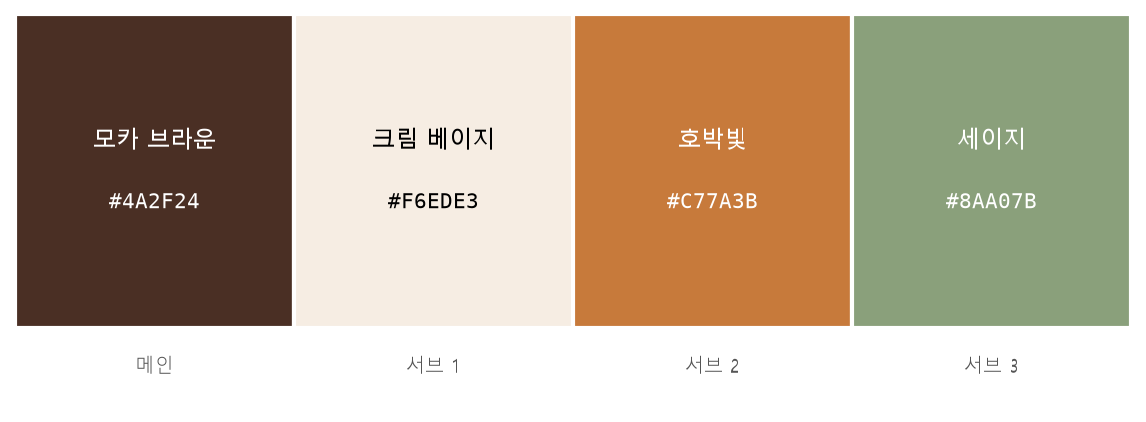
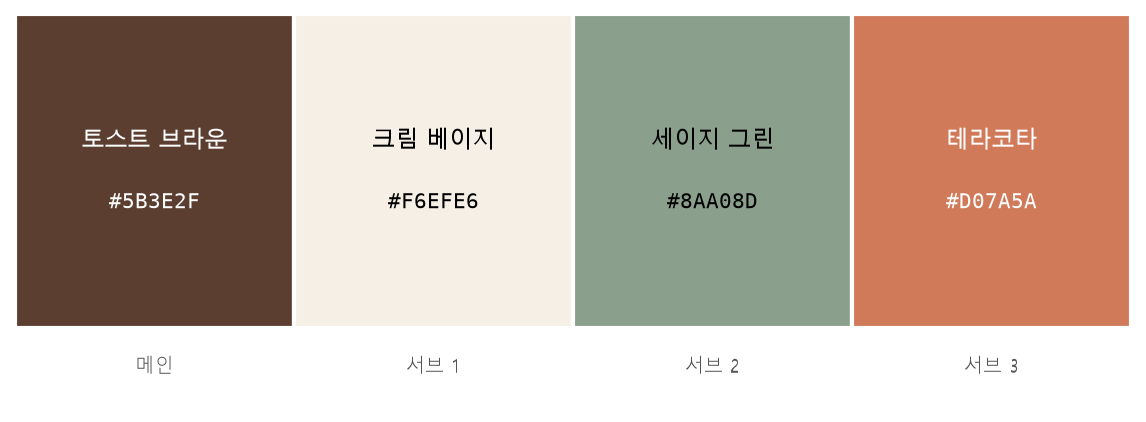
feat: 보너스 2번의 읽는 법(reading)을 검증한다
명세 보너스 2번 '다국어 네이밍 지원' 을 택했는데, 세 필드 중 reading 만
아무 검사도 하지 않고 있었다.

실측으로 '누크 / NOOK / NOOK' 이 나왔다. 읽는 법이 영문 표기와 똑같으면
한국어 사용자에게 알려 주는 것이 없다. 보너스로 고른 항목인데 품질이
새고 있었던 셈이다.

- validate._check_reading 을 넣었다. 비었는지, 알파벳인지, english 를
  그대로 베꼈는지 본다. 버리지는 않고 run_report.md 에 적는다.
- 프롬프트에 '음절을 하이픈으로 나눠 쓰라' 를 예와 함께 못 박았다.
  Ongi -> OWN-gee 는 되고, Nook -> NOOK 은 안 된다.
- README 와 점검표에 '2번을 택했다' 를 분명히 적고, 검사 항목을 표로 냈다.

테스트 192개 통과 (읽는 법 7개 추가)

산출물 재생성 — 다섯 후보 모두 읽는 법이 제대로 나왔다.
페이즈(PA-zeuh) 온김(OWN-gim) 소로우(thuh-ROW) 모먼(MO-muhn) 브리엔츠(BREE-enz)

diff --git a/output/brand_tokens.css b/output/brand_tokens.css
@@ -1,17 +1,17 @@
 :root {
-  --brand-main: #4A2F24;
-  --brand-sub-1: #F6EDE3;
-  --brand-sub-2: #C77A3B;
-  --brand-sub-3: #8AA07B;
+  --brand-main: #5B3E2F;
+  --brand-sub-1: #F6EFE6;
+  --brand-sub-2: #8AA08D;
+  --brand-sub-3: #D07A5A;
 }
 
 /* Tailwind — tailwind.config.js 의 theme.extend.colors 에 붙여 넣기
 {
   "brand": {
-    "DEFAULT": "#4A2F24",
-    "sub1": "#F6EDE3",
-    "sub2": "#C77A3B",
-    "sub3": "#8AA07B"
+    "DEFAULT": "#5B3E2F",
+    "sub1": "#F6EFE6",
+    "sub2": "#8AA08D",
+    "sub3": "#D07A5A"
   }
 }
 */

diff --git a/tests/test_naming_bonus.py b/tests/test_naming_bonus.py
@@ -103,9 +103,8 @@ def test_영문_표기가_비면_규격_위반으로_잡는다():
     """보너스로 택한 항목이므로 빠지면 기록에 남아야 한다."""
     naming = {"naming": [{"name": f"이름{i}", "meaning": "뜻"} for i in range(3)],
               "slogans": ["가", "나", "다"], "story": "이" * 300}
-    문제 = validate.check_naming(naming)
-    assert len(문제) == 3
-    assert all("english" in p for p in 문제)
+    영문문제 = [p for p in validate.check_naming(naming) if "english" in p]
+    assert len(영문문제) == 3      # 후보 셋 모두
 
 
 def test_영문_자리에_한글이_오면_잡는다():
@@ -337,7 +336,7 @@ def test_키가_없으면_예시로_돈다(monkeypatch):
 
 def test_이름이_여섯_개면_규격_위반():
     """명세는 3~5개를 요구한다."""
-    naming = {"naming": [{"name": f"이름{i}", "english": f"Name{i}", "meaning": "뜻"}
+    naming = {"naming": [{"name": f"이름{i}", "english": f"Name{i}", "reading": f"NAY-m{i}", "meaning": "뜻"}
                          for i in range(6)],
               "slogans": ["가", "나", "다"], "story": "이" * 300}
     assert any("3~5개" in p for p in validate.check_naming(naming))
@@ -345,14 +344,14 @@ def test_이름이_여섯_개면_규격_위반():
 
 def test_경쟁사_분석이_없어도_규격을_통과한다():
     """경쟁사 분석은 택하지 않은 보너스라 없어도 된다."""
-    naming = {"naming": [{"name": f"이름{i}", "english": f"Name{i}", "meaning": "뜻"}
+    naming = {"naming": [{"name": f"이름{i}", "english": f"Name{i}", "reading": f"NAY-m{i}", "meaning": "뜻"}
                          for i in range(3)],
               "slogans": ["가", "나", "다"], "story": "이" * 300}
     assert validate.check_naming(naming) == []
 
 
 def test_경쟁사_모양이_틀리면_잡는다():
-    naming = {"naming": [{"name": f"이름{i}", "english": f"Name{i}", "meaning": "뜻"}
+    naming = {"naming": [{"name": f"이름{i}", "english": f"Name{i}", "reading": f"NAY-m{i}", "meaning": "뜻"}
                          for i in range(3)],
               "slogans": ["가", "나", "다"], "story": "이" * 300,
               "competitors": "블루보틀"}
@@ -500,3 +499,53 @@ def test_유형_번호를_받아_둔다(monkeypatch):
 
     후보 = naming.generate_naming(BRIEF)["naming"]
     assert [c["type"] for c in 후보] == ["1", "2", "3"]
+
+
+# --- 보너스: 읽는 법(reading) 품질 ------------------------------------------
+#
+# 실측으로 '누크 / NOOK / NOOK' 이 나왔다. 읽는 법이 영문 표기와 똑같으면
+# 한국어 사용자에게 아무것도 알려 주지 못한다.
+
+def _후보하나(**덮어쓰기):
+    후보 = {"name": "온기", "english": "Ongi", "reading": "OWN-gee", "meaning": "뜻"}
+    후보.update(덮어쓰기)
+    return {"naming": [후보, dict(후보, name="쉼표", english="Comma", reading="COM-ma"),
+                       dict(후보, name="모닥", english="Modak", reading="MO-dak")],
+            "slogans": ["가", "나", "다"], "story": "이" * 300}
+
+
+def test_읽는_법이_영문_표기와_같으면_잡는다():
+    문제 = validate.check_naming(_후보하나(english="Nook", reading="NOOK"))
+    assert any("reading 이 english 와 똑같습니다" in p for p in 문제)
+
+
+def test_대소문자만_다른_것도_같은_것으로_본다():
+    """'nook' 과 'NOOK' 은 읽는 법을 알려 주지 않는 건 마찬가지다."""
+    문제 = validate.check_naming(_후보하나(english="Nook", reading="nook"))
+    assert any("reading" in p for p in 문제)
+
+
+def test_읽는_법이_비면_잡는다():
+    문제 = validate.check_naming(_후보하나(reading=""))
+    assert any("reading (읽는 법) 이 비어 있습니다" in p for p in 문제)
+
+
+def test_읽는_법에_한글이_섞이면_잡는다():
+    문제 = validate.check_naming(_후보하나(reading="온-기"))
+    assert any("reading 에 영문이 아닌" in p for p in 문제)
+
+
+def test_하이픈으로_나눈_읽는_법은_통과한다():
+    문제 = validate.check_naming(_후보하나(english="Ongi", reading="OWN-gee"))
+    assert not any("reading" in p for p in 문제)
+
+
+def test_예시_값의_읽는_법은_규격을_지킨다():
+    """호출이 실패해 예시로 떨어져도 보너스 품질이 무너지면 안 된다."""
+    assert not any("reading" in p for p in validate.check_naming(naming.EXAMPLE))
+
+
+def test_프롬프트가_읽는_법_베끼기를_막는다():
+    prompt = naming.build_prompt(BRIEF)
+    assert "reading 은 english 를 그대로 베끼면 안 됩니다" in prompt
+    assert "음절을 하이픈으로 나눠" in prompt

diff --git a/brand_result/validate.py b/brand_result/validate.py
@@ -96,6 +96,8 @@ def check_naming(naming: object) -> list[str]:
                 problems.append(
                     f"[2] naming.naming[{index}]: english 에 영문이 아닌 글자가 있습니다"
                 )
+
+            problems += _check_reading(item, english, f"[2] naming.naming[{index}]")
         problems += _check_distinctiveness(names)
     elif "naming" in naming:
         problems.append("[2] naming: naming 이 list 가 아닙니다")
@@ -147,6 +149,32 @@ def _check_color(color: object, where: str) -> list[str]:
             f"{where}: hex 가 '{hex_value}' 입니다 — '#RRGGBB' 대문자 6자리로 주세요"
         )
 
+    return problems
+
+
+def _check_reading(item: dict, english: str, where: str) -> list[str]:
+    """읽는 법(`reading`)을 검사한다.
+
+    보너스로 택한 '다국어 네이밍 지원' 의 일부다. `reading` 은 한국어 사용자가
+    영문 표기를 어떻게 소리 내는지 알려 주는 자리다.
+
+    `NOOK / NOOK` 처럼 영문 표기를 그대로 베껴 오는 일이 있었다. 그러면
+    아무것도 알려 주지 못한다. 버리지는 않고 `run_report.md` 에 적는다.
+    """
+    problems: list[str] = []
+    reading = str(item.get("reading") or "").strip()
+
+    if not reading:
+        return [f"{where}: reading (읽는 법) 이 비어 있습니다"]
+
+    if not reading.replace("-", "").replace(" ", "").isascii():
+        problems.append(f"{where}: reading 에 영문이 아닌 글자가 있습니다")
+
+    if english and reading.upper() == english.upper():
+        problems.append(
+            f"{where}: reading 이 english 와 똑같습니다 ('{reading}')"
+            " — 음절을 나눠 읽는 법을 보여 주세요 (예: OWN-gee)"
+        )
     return problems
 
 

diff --git a/naming.py b/naming.py
@@ -140,6 +140,11 @@ MULTILINGUAL_RULE = (
     "  - name    : 한글 이름\n"
     "  - english : 같은 이름의 영문 표기\n"
     "  - reading : 영문 표기를 어떻게 읽는지 (예: OWN-gee)\n"
+    "**reading 은 english 를 그대로 베끼면 안 됩니다.**\n"
+    "  한국어 사용자가 소리 내어 읽을 수 있게 **음절을 하이픈으로 나눠** 씁니다.\n"
+    "  ⭕ Ongi → OWN-gee   ⭕ Comma → COM-ma   ⭕ Nook → NUUK-euh\n"
+    "  ❌ Nook → NOOK (똑같이 적으면 아무것도 알려 주지 못합니다)\n"
+    "  강세가 오는 음절은 대문자로, 나머지는 소문자로 쓰면 읽기 쉽습니다.\n"
     "영문 표기는 간판·도메인·SNS 계정에 그대로 쓸 수 있어야 합니다.\n"
     "  - 소리 나는 대로 옮기거나(온기 → Ongi), 뜻이 통하는 영어 낱말로 짓습니다(쉼표 → Comma).\n"
     "  - 12자 안쪽, 알파벳만 씁니다. 숫자·기호·띄어쓰기를 넣지 마세요.\n"

diff --git a/output/brand_result.md b/output/brand_result.md
@@ -1,6 +1,6 @@
 # 브랜드 아이덴티티 결과
 
-생성 시각: 2026-08-26T15:55:33 · 완료 단계 4/4
+생성 시각: 2026-08-26T22:36:33 · 완료 단계 4/4
 
 > 비어 있는 항목은 해당 파트가 아직 안 들어왔거나 실패한 것입니다.
 > 자세한 사유는 [`run_report.md`](run_report.md) 에 있습니다.
@@ -20,35 +20,35 @@
 
 ## 2. 네이밍 · 슬로건 · 스토리
 
-**누크 (NOOK, NOOK)**
+**페이즈 (Paze, PA-zeuh)**
 
-> 따뜻하고 아늑한 나만의 구석 자리를 뜻하는 영단어에서 가져온 이름입니다.
+> Pace(속도)와 Pause(멈춤)를 결합하여 일상의 빠른 속도를 늦추고 잠시 멈춰 서는 순간을 의미합니다.
 
 다른 후보
 
-- 로웰 (LOWELL, LOW-ell) — 조용한 시인을 연상시키는 이름으로, 평온하고 사랑받는 내면의 안식처를 의미합니다.
-- 온즈 (OUNCE, OWN-ss) — 커피 한 잔을 완성하는 가장 정밀한 단위에서 착안하여 맛에 대한 진심을 담았습니다.
-- 멜로우 (MELLOW, MEL-low) — 무르익은 과일이나 부드러운 소리처럼 편안하고 감성적인 상태를 강조한 명칭입니다.
-- 에이커 (ACRE, AY-ker) — 역사적으로 평화로운 휴식이 보장된 땅의 단위를 뜻하며 쉼터가 되는 공간을 상징합니다.
+- 온김 (Ongim, OWN-gim) — 따뜻할 온(溫)과 차에서 피어오르는 '김'을 결합하여 음료가 주는 시각적 온기를 형상화했습니다.
+- 소로우 (Thoreau, thuh-ROW) — 고전 월든의 저자 헨리 데이비드 소로우의 이름에서 따와 숲속의 고요한 사색과 자발적 고립을 지향합니다.
+- 모먼 (Momen, MO-muhn) — Moment(순간)의 끝음을 생략하여 과거와 미래가 아닌 오직 현재의 평온에만 집중하는 찰나를 강조했습니다.
+- 브리엔츠 (Brienz, BREE-enz) — 알프스 기슭의 평화로운 호수 마을 지명에서 가져와 이국적이고 압도적인 정적을 공간에 담았습니다.
 
 ### 슬로건
 
-> 모니터 너머 지친 당신에게 필요한 한 줄기 빛
-> 잔잔한 음악과 온기가 머무는 아늑한 구석
-> 나를 위한 가장 완벽한 쉼표, 누크에서 찾으세요
+> 숨 가쁜 업무 사이, 당신만을 위한 빈칸이 필요할 때
+> 손끝에 닿는 온기와 마음을 어루만지는 고요한 숨
+> 오늘의 마침표가 아닌, 페이즈로 이어가는 쉼표
 
 ### 브랜드 스토리
 
-정신없이 흘러가는 도심 속에서 직장인들은 커피 한 잔의 여유조차 업무의 연장선으로 느끼곤 합니다. 우리는 차가운 모니터 불빛에서 벗어나 잠시 숨을 고를 수 있는 '진짜 쉼표'를 제안하기 위해 탄생했습니다. 단순한 카페를 넘어, 공간의 조도와 음악의 선율까지 따뜻하게 설계하여 방문객의 내면을 채우는 것을 철학으로 삼습니다. 과시적인 유행을 따르기보다는 언제 찾아와도 변함없이 아늑한 그늘이 되어주는 브랜드가 되고자 합니다. 바쁜 일상 속에서 가장 편안한 나만의 구석 자리가 되어, 내일로 나아갈 에너지를 얻는 감성적인 안식처로 자리 잡는 것이 우리의 비전입니다.
+반복되는 업무와 소음 속에서 2030 직장인들은 단순한 물리적 휴식보다 정서적 환기를 갈망합니다. 우리는 이들이 잠시나마 사회적 가면을 벗고 오로지 자신에게만 집중할 수 있는 '도심 속 은신처'를 제공하고자 이 브랜드를 시작했습니다. 과시적인 인테리어나 화려한 메뉴 대신, 비어있는 공간이 주는 충만함과 재료 본연의 따뜻함을 유지하는 것을 브랜드의 핵심 철학으로 삼습니다. 단순히 음료를 마시는 공간을 넘어, 일상의 속도를 스스로 조절하고 다시 나아갈 에너지를 얻는 정서적 이정표가 되는 것이 우리의 비전입니다.
 
-*314자*
+*286자*
 
 ### 경쟁사 분석과 차별화 포인트
 
 | 경쟁사 | 시장에서의 자리 | 우리가 다르게 갈 지점 |
 | --- | --- | --- |
-| 블루보틀 | 장인 정신과 미니멀리즘을 강조한 스페셜티 커피의 대명사입니다. | 차갑고 절제된 화이트 톤 대신, 목재와 조명을 활용한 시각적 온기로 지친 직장인을 포용합니다. |
-| 스타벅스 | 어디서나 균일한 경험을 제공하는 전 세계적인 제3의 공간입니다. | 대중적인 분주함과 소음에서 탈피하여, 2030 타깃이 오롯이 개인적인 감상에 젖을 수 있는 아지트를 지향합니다. |
+| 블루보틀 | 미니멀리즘과 스페셜티 커피의 전문성을 강조하며 브랜드 마니아층을 확보했습니다. | 전문가적인 시선보다는 사용자의 정서적 휴식에 집중하여 보다 포근하고 아늑한 공간 경험을 제공합니다. |
+| 스타벅스 | 제3의 공간으로서 표준화된 서비스와 대중적인 접근성을 바탕으로 시장을 점유하고 있습니다. | 표준화된 활기보다는 각 매장만의 고유한 감성과 느린 호흡을 강조하여 대화보다는 사색에 적합한 분위기를 조성합니다. |
 
 ---
 
@@ -56,14 +56,14 @@
 
 | 역할 | HEX | 이름 | 고른 이유 |
 | --- | --- | --- | --- |
-| 메인 | `#4A2F24` | 모카 브라운 | 따뜻하고 아늑한 카페의 중심을 표현하는 깊은 브라운으로 흰 배경에서도 로고가 또렷하게 보입니다. |
-| 서브 1 | `#F6EDE3` | 크림 베이지 | 밝고 은은한 배경색으로 여백을 살려 텍스트와 공간의 편안함을 보장합니다. |
-| 서브 2 | `#C77A3B` | 호박빛 | 따뜻한 포인트 컬러로 메뉴와 소품에 감성적 활기를 더해줍니다. |
-| 서브 3 | `#8AA07B` | 세이지 | 부드러운 녹색 포인트로 식물과 휴식의 이미지를 더해 일상 속 쉼을 암시합니다. |
+| 메인 | `#5B3E2F` | 토스트 브라운 | 따뜻한 커피와 원목을 떠올리게 하는 깊은 브라운으로 흰 배경에서도 선명하게 브랜드의 온기와 안정감을 전달합니다. |
+| 서브 1 | `#F6EFE6` | 크림 베이지 | 넉넉한 여백과 가독성을 살려 '멈춤'의 공간을 만드는 밝은 배경 색입니다. |
+| 서브 2 | `#8AA08D` | 세이지 그린 | 도심 속 은신처의 차분함과 정서적 환기를 상징하는 부드러운 그린 포인트입니다. |
+| 서브 3 | `#D07A5A` | 테라코타 | 재료 본연의 따뜻함과 감성적 포인트를 더해 전체 톤에 활기를 주는 컬러입니다. |
 
 **명도 대비 확인**
 
-- ⚠ 메인 색 #4A2F24 위 검은 글씨 대비가 1.72:1 입니다 (WCAG AA 기준 4.5:1 미만)
+- ⚠ 메인 색 #5B3E2F 위 검은 글씨 대비가 2.17:1 입니다 (WCAG AA 기준 4.5:1 미만)
 
 색을 고르는 건 사람의 판단이라 막지 않았습니다. 근거만 적어 둡니다.
 
@@ -75,7 +75,7 @@
 
 ![로고 시안 1](logo_01.png)
 
-프롬프트: `minimalist geometric icon, single abstract symbol suggesting leisure, solid warm neutral tones shape on pure white background, flat vector, no lettering, no words, no signature, no watermark, centered, lots of white space`
+프롬프트: `minimalist geometric icon, single abstract symbol suggesting relaxation, solid warm neutral tones shape on pure white background, flat vector, no lettering, no words, no signature, no watermark, centered, lots of white space`
 
 ### 시안 2
 

diff --git a/README.md b/README.md
@@ -150,21 +150,51 @@ python main.py --brief samples/brief.json --output ./output --logos 3
 시안마다 다른 프롬프트 템플릿을 씁니다. 같은 그림이 여러 장 나오면 시안이 아니기 때문입니다.
 셋 다 팔레트 메인 컬러 계열이고, 글자가 들어가지 않습니다.
 
-**네이밍** — 후보마다 다른 유형으로, 한글 이름과 영문 표기를 함께
+**네이밍** — 후보마다 다른 유형으로, 한글 이름·영문 표기·읽는 법을 함께
 
-| 이름 | 영문 표기 | 유형 |
-| --- | --- | --- |
-| 누크 | NOOK | 은유·조어 |
-| 로웰 | LOWELL | 문학·인물 |
-| 온즈 | OUNCE | 제품 직관 |
-| 멜로우 | MELLOW | 속성 강조 |
-| 에이커 | ACRE | 지명·역사 |
+| 이름 | 영문 표기 | 읽는 법 | 유형 |
+| --- | --- | --- | --- |
+| 페이즈 | Paze | PA-zeuh | 은유·조어 |
+| 온김 | Ongim | OWN-gim | 제품 직관 |
+| 소로우 | Thoreau | thuh-ROW | 문학·인물 |
+| 모먼 | Momen | MO-muhn | 속성 강조 |
+| 브리엔츠 | Brienz | BREE-enz | 지명·역사 |
 
-**슬로건 3개 · 브랜드 스토리 314자 · 경쟁사 분석 2건**도 함께 나옵니다.
+**슬로건 3개 · 브랜드 스토리 286자 · 경쟁사 분석 2건**도 함께 나옵니다.
 텍스트 결과 전체는 [`output/brand_result.md`](output/brand_result.md)에 있습니다.
 
 > 위 결과는 **코디세이 공개 API**로 생성했습니다. 예시 값으로 대체된 자리는 없습니다
 > ([`output/run_report.md`](output/run_report.md) 참고).
+
+---
+
+## 보너스 — 다국어 네이밍 지원 (2번 선택)
+
+> 명세의 보너스 두 가지 중 **2번** 을 택했습니다.
+> *"한글 네이밍과 함께 영문 네이밍을 동시에 생성한다"*
+
+후보마다 **세 가지**를 함께 만듭니다.
+
+| 필드 | 무엇 | 예 |
+| --- | --- | --- |
+| `name` | 한글 이름 | 쉼표 |
+| `english` | 영문 표기 | Comma |
+| `reading` | 읽는 법 | COM-ma |
+
+결과 문서에는 `쉼표 (Comma, COM-ma)` 형태로 실립니다.
+
+**영문 표기를 짓는 규칙** — 간판·도메인·SNS 계정에 그대로 쓸 수 있어야 합니다.
+
+- 소리 나는 대로 옮기거나(온기 → Ongi), 뜻이 통하는 영어 낱말로(쉼표 → Comma)
+- 알파벳만, 12자 안쪽. 숫자·기호·띄어쓰기 없음
+- 영어권 사람이 발음하기 쉽고, 다른 뜻으로 읽히지 않을 것
+- 후보끼리 영문 표기가 겹치지 않을 것
+
+**읽는 법은 영문 표기를 그대로 베끼지 않습니다.** 한국어 사용자가 소리 내어 읽도록
+음절을 하이픈으로 나눕니다 (`Ongi → OWN-gee`). 베껴 오면 `run_report.md`에 기록됩니다.
+
+셋 중 하나라도 비거나 규격에 어긋나면 리포트에 남습니다. **버리지는 않습니다** —
+채택은 사람이 판단할 문제입니다.
 
 ---
 
@@ -182,8 +212,8 @@ python main.py --brief samples/brief.json --output ./output --logos 3
 | 8. `brand_result.json` + 개별 PNG 저장 | ✅ | `store.py` |
 | 9. API 실패 시 안내 후 다음 단계 진행 | ✅ | `runner.run_step` |
 | 10. 키를 코드에 쓰지 않음 | ✅ | `.env` → `load_dotenv()` |
-| 보너스 · 다국어 네이밍 | ✅ **선택** | 한글 + 영문 표기 + 읽는 법 |
-| 보너스 · 경쟁사 분석 | ✅ 함께 구현 | 차별화 포인트 제안 |
+| **보너스 2번 · 다국어 네이밍 지원** | ✅ **← 우리가 택한 것** | 후보마다 한글 + 영문 표기 + 읽는 법 |
+| 보너스 1번 · 경쟁사 분석 | ✅ 덤으로 구현 | 택하지 않았지만 동작합니다 |
 
 자세한 대조는 [`docs/명세-점검표.md`](docs/명세-점검표.md)에 있습니다.
 
@@ -243,7 +273,7 @@ brand_result/
 python -m pytest -q
 ```
 
-**185개.** 대부분 실패 상황을 검증합니다 — 단계 파일이 없을 때, 코드가 예외를 던질 때,
+**192개.** 대부분 실패 상황을 검증합니다 — 단계 파일이 없을 때, 코드가 예외를 던질 때,
 규격이 어긋날 때, 저장이 불가능할 때, 입력이 잘못됐을 때,
 LLM이 hex를 소문자나 `rgb()`로 줬을 때, 로고 프롬프트에 한국어가 섞였을 때.
 

diff --git a/output/logo_prompts.md b/output/logo_prompts.md
@@ -44,7 +44,7 @@ Draw an emblem made of one continuous outline that suggests a pause in everyday 
 생성: codyssey
 
 ```text
-minimalist geometric icon, single abstract symbol suggesting leisure, solid warm neutral tones shape on pure white background, flat vector, no lettering, no words, no signature, no watermark, centered, lots of white space
+minimalist geometric icon, single abstract symbol suggesting relaxation, solid warm neutral tones shape on pure white background, flat vector, no lettering, no words, no signature, no watermark, centered, lots of white space
 ```
 
 ### 시안 2

diff --git a/output/run_report.md b/output/run_report.md
@@ -1,6 +1,6 @@
 # 실행 리포트
 
-실행 시각: 2026-08-26T15:55:33
+실행 시각: 2026-08-26T22:36:33
 
 | 단계 | 상태 | 비고 |
 | --- | :---: | --- |
